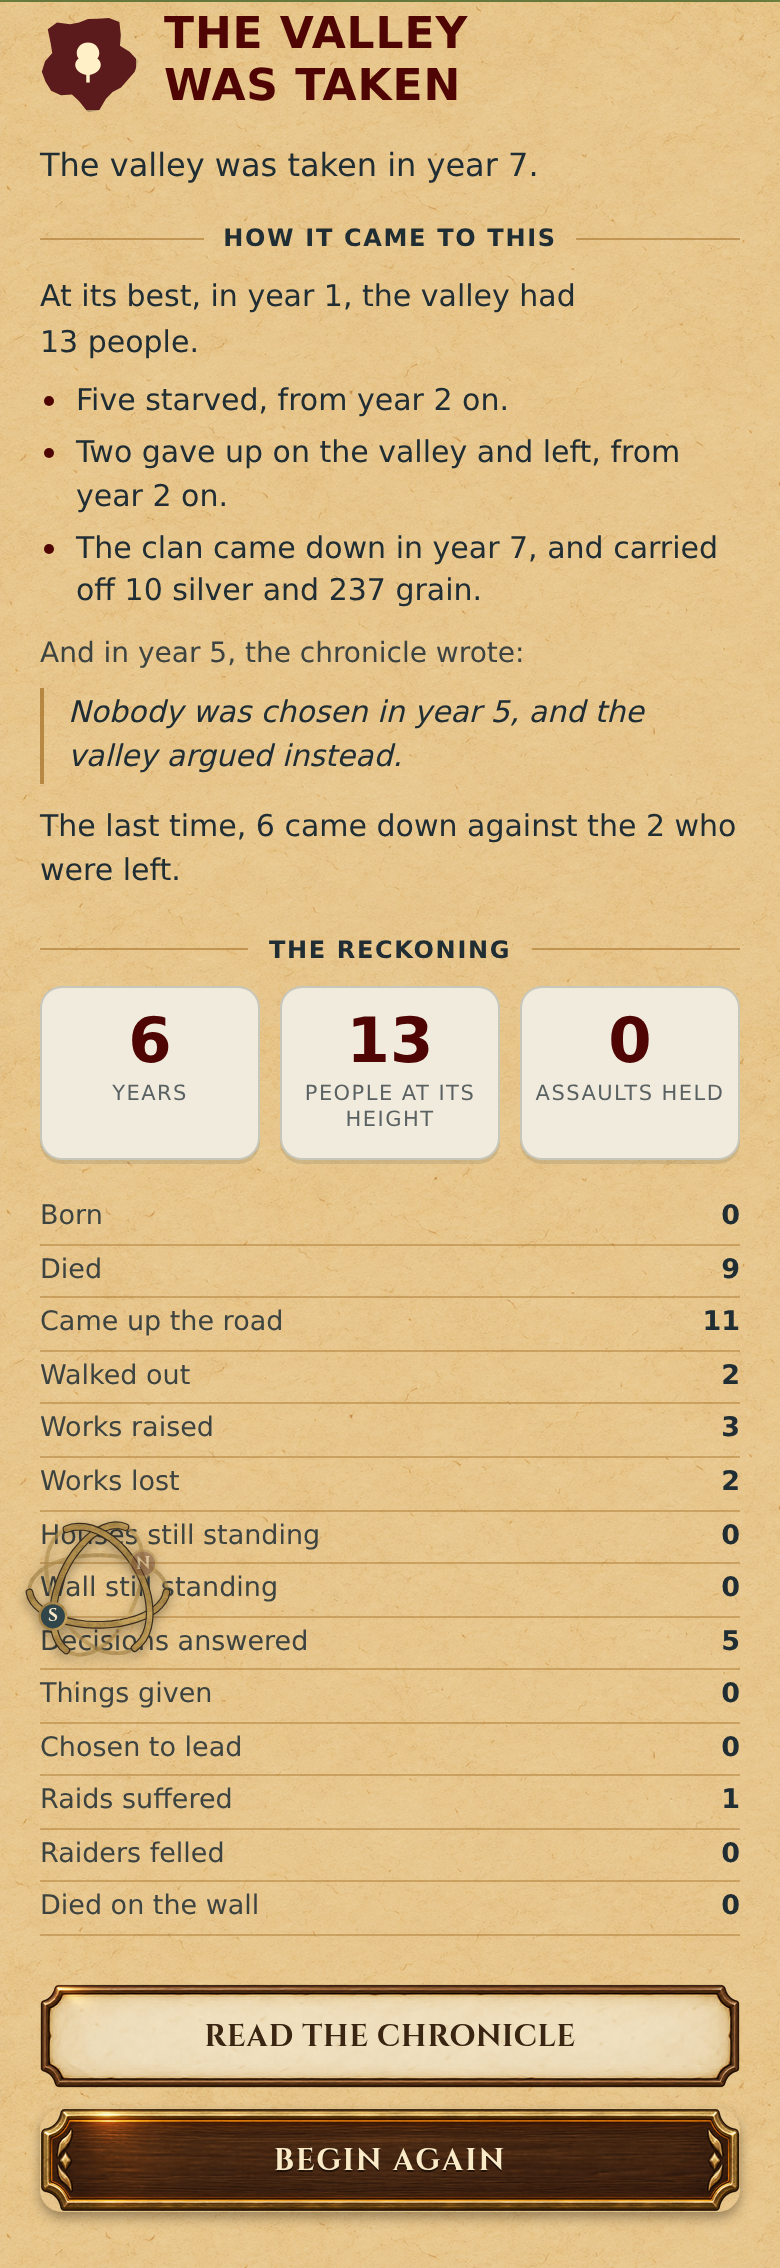
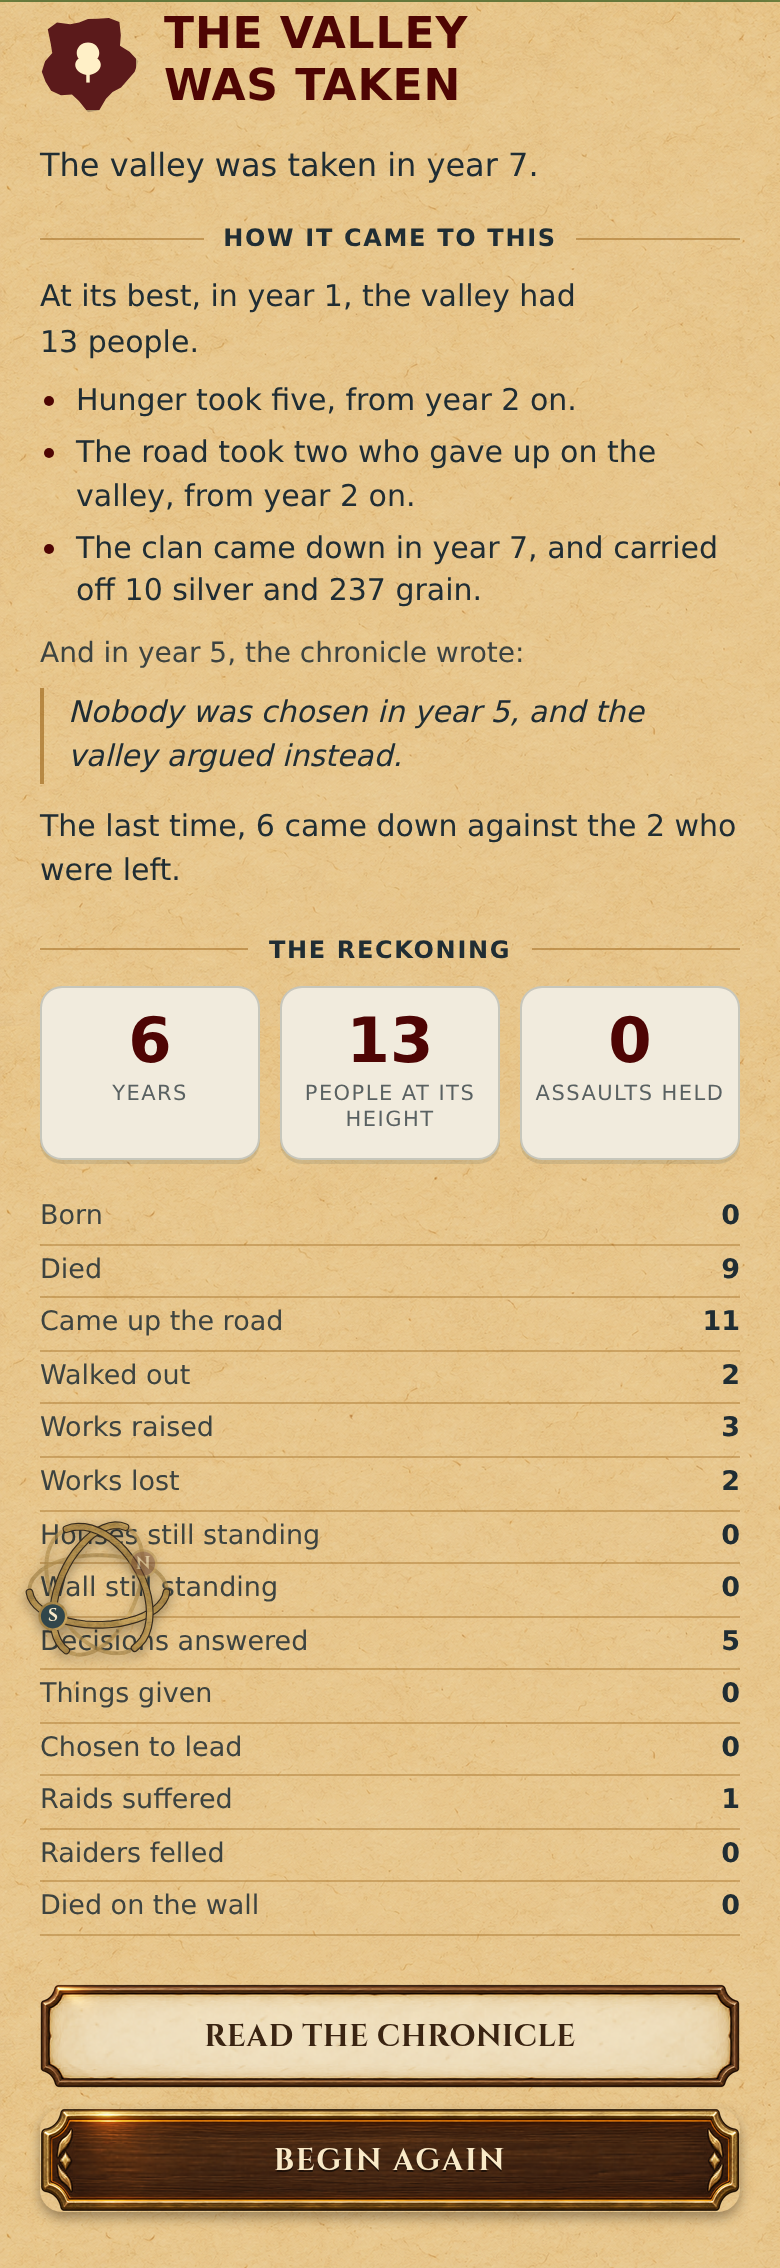
K7: los papeles (medida, §13.3b, changelog v5.72, cuaderno, plan-meta, encargos) y el banco sin frases que abren con la cifra
ui-keys.test.ts prohíbe que una frase empiece por {count}: se reescriben
las seis; las capturas se repiten con el texto final.

Claude-Session: https://claude.ai/code/session_01WkFxGRy8Nz5uXvHuCD6pWB

Changed region(s): [[0.1231, 0.1543, 0.8615, 0.2469]]

diff --git a/src/engine/chronicle/bank.en.ts b/src/engine/chronicle/bank.en.ts
@@ -3117,21 +3117,21 @@ export const UI_BANK: Record<string, string> = {
   // llevó, la decisión que la crónica apuntó cerca, y el último golpe.
   'epitaph.why.title': 'How it came to this',
   'epitaph.why.peak': 'At its best, in year {year}, the valley had {peak} people.',
-  'epitaph.why.hunger': '{count} starved, from year {year} on.',
+  'epitaph.why.hunger': 'Hunger took {count}, from year {year} on.',
   'epitaph.why.hunger.one': 'One starved, in year {year}.',
   'epitaph.why.plague': 'Plague took {count}, from year {year} on.',
   'epitaph.why.plague.one': 'Plague took one, in year {year}.',
-  'epitaph.why.cold': '{count} froze, from year {year} on.',
+  'epitaph.why.cold': 'The cold took {count}, from year {year} on.',
   'epitaph.why.cold.one': 'One froze, in year {year}.',
   'epitaph.why.fire': 'Fire took {count}, from year {year} on.',
   'epitaph.why.fire.one': 'Fire took one, in year {year}.',
-  'epitaph.why.violence': '{count} died by violence, from year {year} on.',
+  'epitaph.why.violence': 'Violence took {count}, from year {year} on.',
   'epitaph.why.violence.one': 'One died by violence, in year {year}.',
-  'epitaph.why.natural': '{count} died before their time, from year {year} on.',
+  'epitaph.why.natural': 'Sickness and mishap took {count} before their time, from year {year} on.',
   'epitaph.why.natural.one': 'One died before their time, in year {year}.',
-  'epitaph.why.old_age': '{count} died old, from year {year} on, and nobody came to take their place.',
+  'epitaph.why.old_age': 'Old age took {count}, from year {year} on, and nobody came to take their place.',
   'epitaph.why.old_age.one': 'One died old, in year {year}, and nobody came to take their place.',
-  'epitaph.why.left': '{count} gave up on the valley and left, from year {year} on.',
+  'epitaph.why.left': 'The road took {count} who gave up on the valley, from year {year} on.',
   'epitaph.why.left.one': 'One gave up on the valley and left, in year {year}.',
   'epitaph.why.raids': 'The clan came down {count} times from year {year}, and carried off {silver} silver and {grain} grain.',
   'epitaph.why.raids.one': 'The clan came down in year {year}, and carried off {silver} silver and {grain} grain.',

diff --git a/src/ui/screens/epitaph.ts b/src/ui/screens/epitaph.ts
@@ -298,9 +298,9 @@ function why(game: ArchivedGame): HTMLElement | null {
     const list = document.createElement('ul');
     for (const link of story.links) {
       const item = document.createElement('li');
-      item.textContent = sentence(renderUiText(`epitaph.why.${link.kind}${link.count === 1 ? '.one' : ''}`, {
+      item.textContent = renderUiText(`epitaph.why.${link.kind}${link.count === 1 ? '.one' : ''}`, {
         count: link.count, year: yearOf(link.tick), silver: link.silver, grain: link.grain,
-      }));
+      });
       list.append(item);
     }
     box.append(list);
@@ -326,16 +326,6 @@ function why(game: ArchivedGame): HTMLElement | null {
 }
 
 /**
- * K7 · Una frase empieza con mayúscula. Las del «por qué» abren con `{count}`,
- * que el banco escribe en letra («three starved»), y `renderUiText` no
- * capitaliza: lo hace la crónica (`render.ts`) y esto es lo mismo para la
- * pantalla.
- */
-function sentence(text: string): string {
-  return text.length === 0 ? text : `${text[0]!.toUpperCase()}${text.slice(1)}`;
-}
-
-/**
  * K7 · La línea con la que el valle siguiente se acuerda de éste: cómo cayó y,
  * si la crónica lo sabe, lo que más pesó. La dice `app.ts` al fundarlo.
  */
@@ -343,9 +333,9 @@ export function rememberFall(game: ArchivedGame): string {
   const fell = renderUiText(`successor.fell.${game.cause}`, { year: yearOf(game.endedTick) });
   const link = heaviestOf(fallOf(game));
   if (link === null) return fell;
-  const why = sentence(renderUiText(`epitaph.why.${link.kind}${link.count === 1 ? '.one' : ''}`, {
+  const why = renderUiText(`epitaph.why.${link.kind}${link.count === 1 ? '.one' : ''}`, {
     count: link.count, year: yearOf(link.tick), silver: link.silver, grain: link.grain,
-  }));
+  });
   return `${fell} ${why}`;
 }
 

diff --git a/docs/medidas/k7-caidas-2026-10-02.md b/docs/medidas/k7-caidas-2026-10-02.md
@@ -1,0 +1,91 @@
+# K7 · De qué muere una aldea, y si se puede contar (2 oct 2026)
+
+Medido con `tools/reports/fall-report.ts` sobre `main` con K8+K9 (v5.57),
+semillas `3 + 7·i` (30, la banda de `pace-report`, la que más cae según
+`lethality-report.ts`) × 100 años, `run` y horas a ×1 (una semana son 14 min).
+
+## Cuántas caen, y de qué
+
+| estrategia | acaban | de qué | hora del final (mediana) |
+|---|---:|---|---:|
+| prudente, sin actos | **2/30** | 1 extinción, 1 abandono | 66 h |
+| prudente + herrajes siempre (K9) | 19/30 | 17 asaltadas, 1 abandono, 1 extinción | 372 h |
+| adversa (`worst`, §12.9) | 10/30 | 8 asaltadas, 2 abandonos | 361 h |
+
+**El dato para Vera: jugando con prudencia casi no se muere.** Las dos que
+caen lo hacen en el arranque —el caserío de la pareja— y de hambre: la 129 se
+extingue en el año 2 y la 108 se abandona en el 5. **Ninguna asaltada en cien
+años.** No se toca nada por esto: K7 no es nivelado (§1b: «que hoy no muera
+nadie no preocupa; el juego se irá haciendo más difícil por ahí»), pero es la
+razón de que el epitafio vaya a leerse sobre todo tras decisiones malas.
+
+## La cadena se repite
+
+Leyendo la crónica de las 29 caídas entre el punto de no retorno y el final:
+
+- **El caserío que no pasa del primer otoño** (prudente 108, 129; adversa 45,
+  157): llegan cinco o seis bocas en la primera primavera —el forastero del
+  vado incluido—, la primera cosecha no da, mueren de hambre tres, se marchan
+  otros tres y el último aguanta solo hasta que §5.7 lo da por abandonado.
+- **La villa asaltada** (herrajes y adversa): el valle llega a su mejor
+  momento (40–85 personas), y en los años de antes del final se lo llevan el
+  hambre, la peste o las bajadas del clan, que se llevan grano y plata cada
+  vez; el último asalto llega con 40–60 hombres contra lo que queda. **La
+  decisión que la crónica apunta cerca es casi siempre la misma**:
+  `raiders_coming` (esperar o atrincherarse) en 20 de las 25 asaltadas,
+  `succession` (a quién poner al mando, o a nadie) en 4; y en los caseríos, el
+  forastero del vado.
+
+## Cuándo deja de tener vuelta (el aviso en vida)
+
+Para un asalto, el punto de no retorno es el arranque del último tramo en que
+**la partida que bajaría** (la fuerza del clan por su parte de la tentación,
+`world/threat.ts`) ya cuadruplica lo que el valle pone contra ella
+(`resistance` × `STORM_ODDS`), mirado **hasta el aviso** (`raid.coming`): las
+semanas de después ya llevan el saqueo encima y falsean la cuenta.
+
+| estrategia | asaltadas | punto de no retorno antes del final (mediana) |
+|---|---:|---:|
+| herrajes | 17 | 8 h |
+| adversa | 8 | 5 h |
+
+**Unas horas de reloj** —medio año de juego—, y casi siempre después de que
+el valle ya se haya vaciado. Lo largo es la bajada: del mejor momento al final
+van de 0 a 674 h. Por eso el aviso en vida no se ha hecho y queda para Vera
+(«Abierto», abajo).
+
+## Lo que cuenta el epitafio (`derive/fall.ts`)
+
+Probado sobre las 29: todas tienen algo que contar. Desde **lo que antes
+llegue** de la última vez que el valle tuvo la mitad de su mejor momento y de
+sus últimos cinco años (más los cinco que §5.7 espera en un abandono), nunca
+antes del mejor momento. Cada regla sola dejaba casos fuera:
+
+| regla | qué fallaba |
+|---|---|
+| desde el mejor momento | mesetas de hasta 674 h: «158 murieron de hambre desde el año 34» |
+| últimos cinco años | la peste del año 2 que vació la adversa 45; el hambre del primer otoño de la 108 |
+| la mitad del mejor momento | 7 de 29 valles fuertes tomados de golpe sin nada que contar |
+| **lo que antes llegue** | **ninguno** |
+
+Ejemplos (adversa 129, capturas en `k-img/k7-epitafio-*`):
+
+> At its best, in year 1, the valley had 13 people.
+> · Hunger took five, from year 2 on.
+> · The road took two who gave up on the valley, from year 2 on.
+> · The clan came down in year 7, and carried off 10 silver and 237 grain.
+> And in year 5, the chronicle wrote: *Nobody was chosen in year 5, and the
+> valley argued instead.*
+> The last time, 6 came down against the 2 who were left.
+
+## Abierto, de Vera
+
+1. **El aviso en vida.** Medido arriba: unas horas antes del final y con el
+   valle ya vacío. Si se quiere, la forma barata es una línea de crónica de
+   peso 3 cuando la aldea cruza el umbral («desde la ladera, el clan ya podría
+   tomarla»); pide una marca en el motor y entraría detrás de las rutas.
+2. **Qué cuenta el epitafio**: hoy, el mejor momento, hasta tres cosas, la
+   decisión citada y el último golpe.
+3. **Qué se ve al fundar el siguiente**: hoy, una línea («The last valley was
+   taken in year 7. Hunger took five, from year 2 on.»), sin mejoras ni
+   desbloqueos.

diff --git a/docs/plan-meta.md b/docs/plan-meta.md
@@ -307,7 +307,7 @@ vengan. Cada fila se abre con su medida, como todas.
 | **K4 · La era siguiente: metales** | **Cobre, plata, oro**, y ampliar mucho más | La plata hoy es moneda del camino (M-0), no mineral. Necesita veta en el mapa (la montaña de §7.15), oficio y su cadena | P2 | Alta |
 | **K5 · Más de la caza y la recolección** | **Cuero** de la caza, **lino**, **recolección de plantas** | La caza ya existe con señal en el mapa (RD-1/D1) y paga carne; las setas y la miel salen como sucesos (RD-5). Falta que dejen materia que se use | P2 | Media |
 | **K6 · Las necesidades de una ciudad** | **Medicina, construcción, educación, sanidad, música**, «de todo» | La curandera y la peste existen como sucesos; la capilla y la fe como stat. Cada una sería un oficio con su edificio y su efecto medible | P3, de una en una | Alta |
-| **K7 · Aprender a llevar una aldea (lo «roguelike», no al pie de la letra)** | Matiz de Vera, el mismo día: **no es un roguelike literal**. No hay partidas cortas y durísimas que desbloquean mejoras. La idea es que vas fundando aldeas, **algunas mueren** (no siempre), **aprendes** y poco a poco llegas a «la aldea buena». Habrá mecánicas que aprieten, y queda por decidir si esa aldea buena también puede caer en un asalto: «ya veremos, poco a poco» | Lo que se aprende es **del jugador**, no un sistema de mejoras. Ya existen `foundSuccessor` (un valle nuevo tras el final) y el archivo de partidas. Lo que falta es que morir tenga causas que se entiendan y que la crónica las cuente, para que la siguiente partida se juegue mejor | P2 | Media |
+| ~~K7 · Aprender a llevar una aldea (lo «roguelike», no al pie de la letra)~~ **la parte sin mecánicas nuevas, hecha v5.72**: el epitafio dice por qué cayó —el mejor momento, hasta tres cosas que se lo llevaron, la decisión que la crónica apuntó cerca citada tal cual y el último golpe— y el valle siguiente se acuerda en una línea. Medido (30 semillas × 100 años): con la prudente caen 2 de 30, las dos en el arranque y de hambre, ninguna asaltada; con herrajes 19, con la adversa 10, casi todas asaltadas tras `raiders_coming`. **Abierto, de Vera:** el aviso en vida (el punto sin vuelta llega 5–8 h antes del final) | Matiz de Vera, el mismo día: **no es un roguelike literal**. No hay partidas cortas y durísimas que desbloquean mejoras. La idea es que vas fundando aldeas, **algunas mueren** (no siempre), **aprendes** y poco a poco llegas a «la aldea buena». Habrá mecánicas que aprieten, y queda por decidir si esa aldea buena también puede caer en un asalto: «ya veremos, poco a poco» | Lo que se aprende es **del jugador**, no un sistema de mejoras. Ya existen `foundSuccessor` (un valle nuevo tras el final) y el archivo de partidas. Lo que falta es que morir tenga causas que se entiendan y que la crónica las cuente, para que la siguiente partida se juegue mejor | P2 | Media |
 
 **Y la forma del control, aclarada por Vera el mismo día.** No es un city
 builder intenso: es una mezcla de **sucesos que cambian el rumbo** (lo que ya

diff --git a/docs/design.md b/docs/design.md
@@ -5232,6 +5232,50 @@ Las entradas se renderizan con `makeBundle(ArchivedGame.seed)`: el flujo
 guardar otro estado aleatorio ni subir el esquema. La partida terminada que aún
 se muestra como estado actual no se duplica en el selector.
 
+#### 13.3b Por qué cayó (K7, v5.72, 2 oct 2026)
+
+K7 no es un roguelike: no hay partidas cortas que desbloquean mejoras. Se
+fundan aldeas, algunas mueren y **lo que se aprende es de quien juega**. Lo
+que el juego pone de su parte es que un final se entienda: el epitafio decía
+**cómo** acabó (la causa de `EndState`) y no **por qué** ni **desde cuándo**.
+
+**El epitafio gana una sección, «How it came to this»**, entre la causa y la
+hoja de cuentas (`ui/screens/epitaph.ts`), y la cuenta `derive/fall.ts` con lo
+que la crónica archivada ya dijo —ni un campo nuevo en el guardado ni una
+tirada—:
+
+1. **El mejor momento**: la última vez que la crónica apuntó su mayor número
+   de gente (el `people` de nacimientos, llegadas, muertes y marchas).
+2. **Lo que se lo llevó, como mucho tres cosas** (`FALL.LINKS`), por la gente
+   que costó cada una —hambre, peste, frío, fuego, violencia, muertes antes de
+   tiempo, los que se marcharon— y el clan **por las veces que bajó**, con lo
+   que se llevó. Las muertes de viejo pesan un cuarto: no explican una caída.
+   Se cuenta desde **lo que antes llegue** de la última vez que tuvo la mitad
+   de su mejor momento (`FALL.HALF`) y de sus últimos `FALL.WINDOW_YEARS` años
+   (más `ABANDON_YEARS` en un abandono, que es la espera de §5.7 y no la
+   caída), nunca antes del mejor momento: cada regla sola dejaba valles sin
+   nada que contar (`docs/medidas/k7-caidas-2026-10-02.md`).
+3. **La decisión que la crónica apuntó cerca**, citada tal cual —con la semilla
+   de la partida y su posición en la crónica, la misma voz que la pantalla de
+   crónica—, mirando hasta `FALL.DECISION_YEARS` antes de la caída.
+4. **El último golpe**, que no es una causa: el asalto que tomó el valle no
+   cuenta entre lo que se lo llevó, se dice al final con cuántos bajaron y
+   cuántos quedaban.
+
+Una crónica podada (las partidas viejas del archivo guardan sólo los
+titulares) no sabe nada de esto y la sección no sale.
+
+**Y el valle siguiente se acuerda, en una línea**: al pulsar «Begin again», la
+voz dice cómo cayó el anterior y lo que más pesó («The last valley was taken in
+year 7. Hunger took five, from year 2 on.»). Es todo lo que hereda además de sus
+ruinas: ni una mejora ni un desbloqueo.
+
+**Lo que no se hizo, y por qué** (decisión de Vera pendiente): un aviso en vida
+cuando el valle cruza el punto de no retorno. Medido, en un asalto ese punto
+llega unas horas de reloj antes del final (5–8 h de mediana a ×1) y con el
+valle ya vaciado; la bajada que lo deja así dura mucho más. Pediría una marca
+en el motor.
+
 ### 13.4 Instalable y sin conexión
 
 `CLAUDE.md` describe el proyecto como PWA desde el primer día y este documento

diff --git a/docs/changelog.md b/docs/changelog.md
@@ -1,5 +1,37 @@
 # The Valley — Registro de cambios
 
+## v5.72 · 2 oct 2026 · K7: el epitafio dice por qué cayó el valle
+
+**Medido antes** (`docs/medidas/k7-caidas-2026-10-02.md`, informe nuevo
+`tools/reports/fall-report.ts`, 30 semillas × 100 años): con la política
+prudente caen **2 de 30**, las dos en el arranque y de hambre, y **ninguna
+asaltada**; pidiendo herrajes sin parar, 19 (17 asaltadas); con la adversa, 10
+(8 asaltadas). La cadena se repite —el mejor momento, el hambre, la peste o el
+clan que baja a por la plata, y el último asalto contra lo que queda—, y la
+decisión que la crónica apunta cerca es `raiders_coming` en 20 de las 25
+asaltadas.
+
+**Lo que cambia.** El epitafio gana «How it came to this» (`derive/fall.ts`,
+§13.3b): el mejor momento, hasta tres cosas que se lo llevaron, la decisión
+citada tal como la escribió la crónica y el último golpe. Todo sale de la
+crónica archivada: ni un campo en el guardado ni una tirada, así que no toca el
+motor. Y al fundar el valle siguiente, una línea recuerda cómo cayó el
+anterior. Para fotografiarlo, la ruta de depuración gana `&policy=worst`, que
+juega el valle con la política adversa desde la fundación.
+
+**Por qué la ventana es la que es**: contando desde el mejor momento salían
+mesetas de décadas («158 murieron de hambre desde el año 34»); con cinco años
+fijos se cortaba el hambre del primer otoño de un caserío; con la mitad del
+mejor momento, siete valles fuertes tomados de golpe no tenían nada que contar.
+Lo que antes llegue de las dos cuenta los 29 (`FALL`, con su `TUNE`).
+
+**Abierto, de Vera**: el aviso en vida al cruzar el punto sin vuelta. En un
+asalto llega 5–8 h de reloj antes del final, con el valle ya vaciado, y pediría
+una marca en el motor.
+
+Sin ilustraciones que pedir: K7 no añade líneas de crónica, sólo textos de
+pantalla (`epitaph.why.*`, `successor.fell.*`).
+
 ## v5.57 · 2 oct 2026 · K8+K9: la herrería y la capilla con su tablón, y desde ellas inclinar hacia un recurso
 
 **Medido antes, en `main`** (`docs/medidas/k8-k9-edificios-2026-10-02.md`,

diff --git a/docs/encargos-3d.md b/docs/encargos-3d.md
@@ -223,6 +223,23 @@ pantalla todavía no enseña del todo:
 | **La entrega sin leñadores** | Entra igual, a su hora | El «+1» sale sin nadie delante los días en que el reparto no pone a nadie en el bosque (3 de 38 entregas medidas) | Que el reparto de la jornada (`life/day.ts`) ponga un leñador los días con entregas |
 | **La piedra y el grano** | Siguen entrando por semanas enteras | La piedra se acarrea sin «+1»; el grano sube de golpe | Lo mismo que la madera: entregas con hora, porteador y aviso. Pedido por el dueño del diseño el 28 sep 2026, para después de probar la madera |
 
+## Por qué cayó (2 oct 2026, K7, v5.72)
+
+El epitafio ya cuenta por qué cayó un valle, pero **en el valle no se ve la
+caída mientras ocurre**: la aldea que se va vaciando no tiene más señal que las
+cifras de la cabecera y la crónica. Lo que el motor sabe y la pantalla no
+enseña:
+
+- **El punto sin vuelta de un asalto** (la partida que bajaría ya cuadruplica
+  lo que el valle pone contra ella): se mide en `tools/reports/fall-report.ts`,
+  no se enseña en ningún sitio. Si Vera quiere el aviso en vida, es una línea
+  de crónica y quizá una señal en la muralla.
+- **Las casas que se vacían**: un valle que pasa de 80 a 20 personas conserva
+  sus casas en pie, y la ruina llega con el fuego o el asalto. Sin comprobar
+  todavía si una casa sin nadie se distingue de una habitada; si no, casas a
+  oscuras, puertas atrancadas y huertos sin cuidar contarían la bajada (se
+  cruza con K11, que la muerte se vea).
+
 ## Los tablones de la herrería y de la capilla (2 oct 2026, K8+K9, v5.57)
 
 | Qué | Qué hace el motor | Qué se ve hoy | Qué haría falta |

diff --git a/docs/task-log.md b/docs/task-log.md
@@ -1,5 +1,28 @@
 # Cuaderno de tareas — el rework
 
+## 2 oct 2026 · K7: el epitafio dice por qué cayó (v5.72)
+
+Rama `ccr-372e1786-k4brcp`, después de K8+K9 (#42, fusionada). Medido antes
+(`docs/medidas/k7-caidas-2026-10-02.md`): con la prudente caen 2 de 30 valles en
+cien años, los dos en el arranque y de hambre, ninguno asaltado; con herrajes
+19, con la adversa 10. Hecho sin tocar el motor: `derive/fall.ts` lee la
+crónica archivada y el epitafio cuenta el mejor momento, hasta tres cosas que se
+lo llevaron, la decisión citada y el último golpe; el valle siguiente se acuerda
+en una línea. Prueba: `tests/fast/fall.test.ts` (aldeas que caen de cada causa,
+buscadas entre candidatas; 3 s). Capturas: `docs/medidas/k-img/k7-epitafio-*`
+(extinción, abandono y asalto, a 390 y 750).
+
+**Abierto:**
+
+- **De Vera**: el aviso en vida al cruzar el punto sin vuelta (5–8 h antes del
+  final en un asalto; pediría una marca en el motor y entraría detrás de las
+  rutas); qué cuenta el epitafio; qué se ve al fundar el siguiente.
+- **La dispersión** no salió en ninguna de las 90 partidas medidas: su
+  epitafio está escrito y probado con el banco, no con una caída de verdad.
+- **El recorrido de la tormenta** (`tools/shots/valley.shots.ts:752`) falló una
+  vez en el CI de #42 y pasó al relanzarlo: el reloj falso corre mientras la
+  página carga. Es del carril que lleva ese fichero.
+
 ## 2 oct 2026 · K8+K9: la herrería y la capilla con su tablón (v5.57)
 
 Rama `ccr-372e1786-k4brcp`. Medido antes en `main`, decidido con Vera y hecho:
